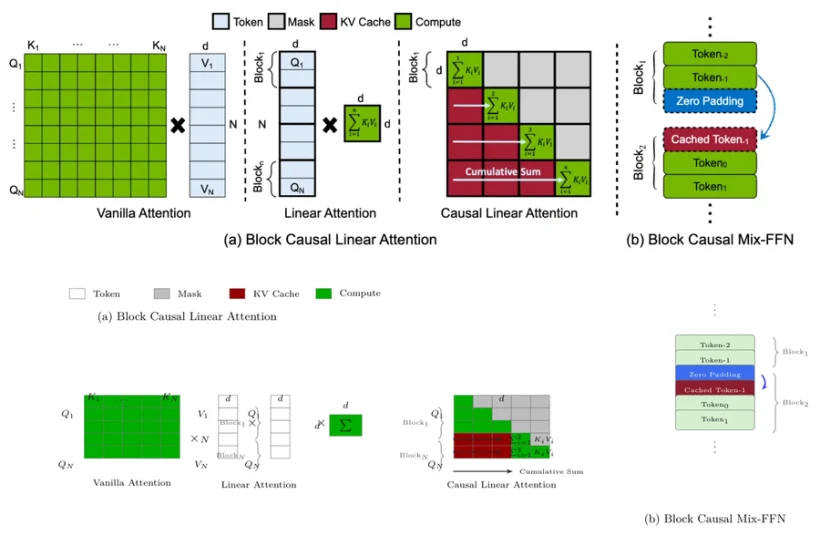
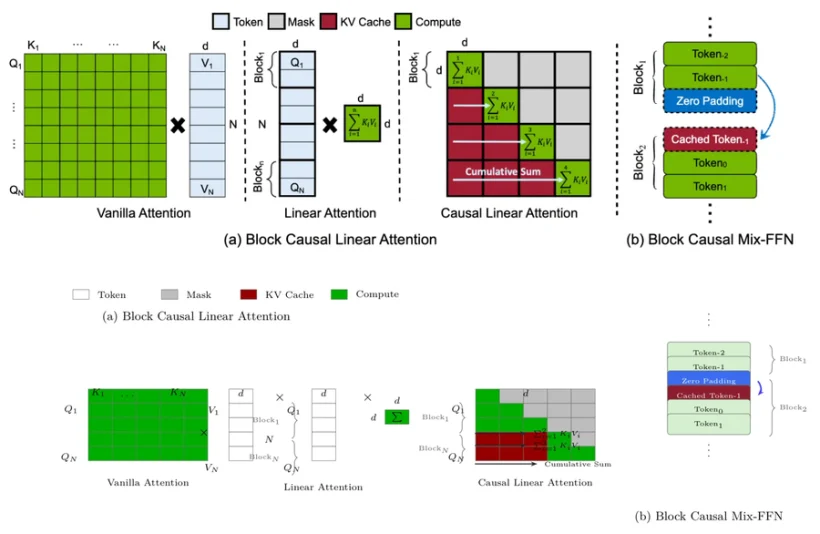
improve(replicas): 第八轮 —— 06 机制图重排 + 全库 AR 收敛
- 矩阵格子 0.52→0.62，V/Q 列与 × 符号重新排布，消除标签与格子重叠
- Σ 结果块改为 d×d 小方块，位置与参考图一致
- (b) 面板左移靠拢，纵向 y=0.60cm 压缩
- 10 张复刻图 AR 全部落在 ±3.1% 内（最大偏差 01 的 +3.1%）

diff --git a/tools/figlab/reps_tikz.py b/tools/figlab/reps_tikz.py
@@ -214,7 +214,7 @@ def fig05() -> str:
 
 def fig06() -> str:
     return r"""
-\begin{tikzpicture}[x=1cm, y=0.66cm]
+\begin{tikzpicture}[x=1cm, y=0.60cm]
 \tikzset{
   cell/.style={draw=black!55, line width=.35pt, inner sep=0pt},
   tok/.style={cell, fill=white},
@@ -243,10 +243,10 @@ def fig06() -> str:
 \begin{scope}[shift={(1.55,4.05)}]
   \foreach \r in {0,...,4}{
     \foreach \c in {0,...,4}{
-      \draw[cmp] (\c*0.52,-\r*0.52) rectangle ++(0.52,0.52);
+      \draw[cmp] (\c*0.62,-\r*0.62) rectangle ++(0.62,0.62);
     }
   }
-  \node[ttl, anchor=north] at (1.30,-2.75) {Vanilla Attention};
+  \node[ttl, anchor=north] at (1.55,-3.05) {Vanilla Attention};
   \node[ttl, anchor=east] at (-0.14,-0.26) {$Q_1$};
   \node[ttl, anchor=east] at (-0.14,-2.34) {$Q_N$};
   \node[ttl, anchor=south] at (0.26,0.10) {$K_1$};
@@ -259,35 +259,35 @@ def fig06() -> str:
 % ================= (a-2) Linear Attention =================
 \begin{scope}[shift={(5.20,4.05)}]
   % V 列（N×d）
-  \foreach \r in {0,...,4}{ \draw[tok] (0,-\r*0.52) rectangle ++(0.52,0.52); }
-  \node[ttl, anchor=east] at (-0.14,-0.26) {$V_1$};
-  \node[ttl, anchor=east] at (-0.14,-2.34) {$V_N$};
-  \node[ttl, anchor=south] at (0.26,0.10) {$d$};
-  \node[ttl, anchor=west] at (-0.62,-1.30) {$N$};
+  \foreach \r in {0,...,4}{ \draw[tok] (0,-\r*0.62) rectangle ++(0.62,0.62); }
+  \node[ttl, anchor=east] at (-0.12,-0.31) {$V_1$};
+  \node[ttl, anchor=east] at (-0.12,-2.79) {$V_N$};
+  \node[ttl, anchor=south] at (0.31,0.10) {$d$};
+  \node[ttl, anchor=west] at (0.80,-1.55) {$N$};
 
-  \node[font=\normalsize] at (0.92,-0.62) {$\times$};
+  \node[font=\normalsize] at (1.32,0.26) {$\times$};
 
   % Q 列（N×d）
-  \begin{scope}[shift={(1.42,0)}]
-    \foreach \r in {0,...,4}{ \draw[tok] (0,-\r*0.52) rectangle ++(0.52,0.52); }
-    \node[ttl, anchor=east] at (-0.14,-0.26) {$Q_1$};
-    \node[ttl, anchor=east] at (-0.14,-2.34) {$Q_N$};
-    \node[ttl, anchor=south] at (0.26,0.10) {$d$};
-    \draw[brc] (-0.42,0.04) -- (-0.42,-1.28) node[midway, left=3.5pt, font=\tiny] {Block$_1$};
-    \draw[brc] (-0.42,-1.36) -- (-0.42,-2.60) node[midway, left=3.5pt, font=\tiny] {Block$_N$};
+  \begin{scope}[shift={(2.15,0)}]
+    \foreach \r in {0,...,4}{ \draw[tok] (0,-\r*0.62) rectangle ++(0.62,0.62); }
+    \node[ttl, anchor=east] at (-0.16,-0.31) {$Q_1$};
+    \node[ttl, anchor=east] at (-0.16,-2.79) {$Q_N$};
+    \node[ttl, anchor=south] at (0.31,0.10) {$d$};
+    \draw[brc] (-0.52,0.04) -- (-0.52,-1.52) node[midway, left=5pt, font=\tiny] {Block$_1$};
+    \draw[brc] (-0.52,-1.60) -- (-0.52,-3.10) node[midway, left=5pt, font=\tiny] {Block$_N$};
   \end{scope}
 
-  \node[font=\normalsize] at (2.80,-0.62) {$\times$};
+  \node[font=\normalsize] at (3.60,0.26) {$\times$};
 
-  % 结果小方块
-  \begin{scope}[shift={(3.02,0)}]
-    \draw[cmp] (0,-1.16) rectangle (0.88,-0.28);
-    \node[font=\small] at (0.44,-0.72) {$\sum$};
-    \node[ttl, anchor=south] at (0.44,-0.20) {$d$};
-    \node[ttl, anchor=east] at (-0.14,-0.72) {$d$};
+  % 结果小方块（d×d）
+  \begin{scope}[shift={(4.05,-0.90)}]
+    \draw[cmp] (0,0) rectangle (0.62,0.62);
+    \node[font=\scriptsize] at (0.31,0.31) {$\sum$};
+    \node[ttl, anchor=south] at (0.31,0.68) {$d$};
+    \node[ttl, anchor=east] at (-0.10,0.31) {$d$};
   \end{scope}
 
-  \node[ttl, anchor=north] at (1.10,-2.82) {Linear Attention};
+  \node[ttl, anchor=north] at (2.45,-3.25) {Linear Attention};
 \end{scope}
 
 % ================= (a-3) Causal Linear Attention =================
@@ -296,16 +296,16 @@ def fig06() -> str:
     \foreach \c in {0,...,4}{
       \pgfmathparse{\r<\c ? 0 : 1}
       \ifnum\pgfmathresult=0
-        \draw[mask] (\c*0.52,-\r*0.52) rectangle ++(0.52,0.52);
+        \draw[mask] (\c*0.62,-\r*0.62) rectangle ++(0.62,0.62);
       \else
-        \draw[cmp] (\c*0.52,-\r*0.52) rectangle ++(0.52,0.52);
+        \draw[cmp] (\c*0.62,-\r*0.62) rectangle ++(0.62,0.62);
       \fi
     }
   }
   % 第 3、4 行的左段标成 KV Cache（红），模仿累积复用的部分
   \foreach \c in {0,1,2}{
-    \draw[kv] (\c*0.52,-1.56) rectangle ++(0.52,0.52);
-    \draw[kv] (\c*0.52,-2.08) rectangle ++(0.52,0.52);
+    \draw[kv] (\c*0.62,-1.86) rectangle ++(0.62,0.62);
+    \draw[kv] (\c*0.62,-2.48) rectangle ++(0.62,0.62);
   }
   \node[ttl, anchor=south] at (1.30,0.10) {$d$};
   \node[ttl, anchor=east] at (-0.14,-0.26) {$Q_1$};
@@ -321,11 +321,11 @@ def fig06() -> str:
   \draw[arr2, draw=black!85] (-0.02,-2.62) -- (1.60,-2.62);
   \node[font=\tiny, anchor=west] at (1.66,-2.62) {Cumulative Sum};
 
-  \node[ttl, anchor=north] at (1.30,-2.82) {Causal Linear Attention};
+  \node[ttl, anchor=north] at (1.55,-3.05) {Causal Linear Attention};
 \end{scope}
 
 % ================= (b) Block Causal Mix-FFN =================
-\begin{scope}[shift={(17.35,4.30)}]
+\begin{scope}[shift={(16.30,3.90)}]
   \node[ttl] at (1.35,3.95) {$\vdots$};
 
   \foreach \i/\name/\fc/\tc in {
@@ -349,7 +349,7 @@ def fig06() -> str:
   \draw[brc] (2.92,2.66) -- (2.92,1.42) node[midway, right=4pt, font=\tiny] {Block$_1$};
   \draw[brc] (2.92,1.18) -- (2.92,-1.28) node[midway, right=4pt, font=\tiny] {Block$_2$};
 \end{scope}
-\node[font=\small] at (18.70,-0.55) {(b) Block Causal Mix-FFN};
+\node[font=\small] at (17.65,-0.85) {(b) Block Causal Mix-FFN};
 \end{tikzpicture}
 """
 
